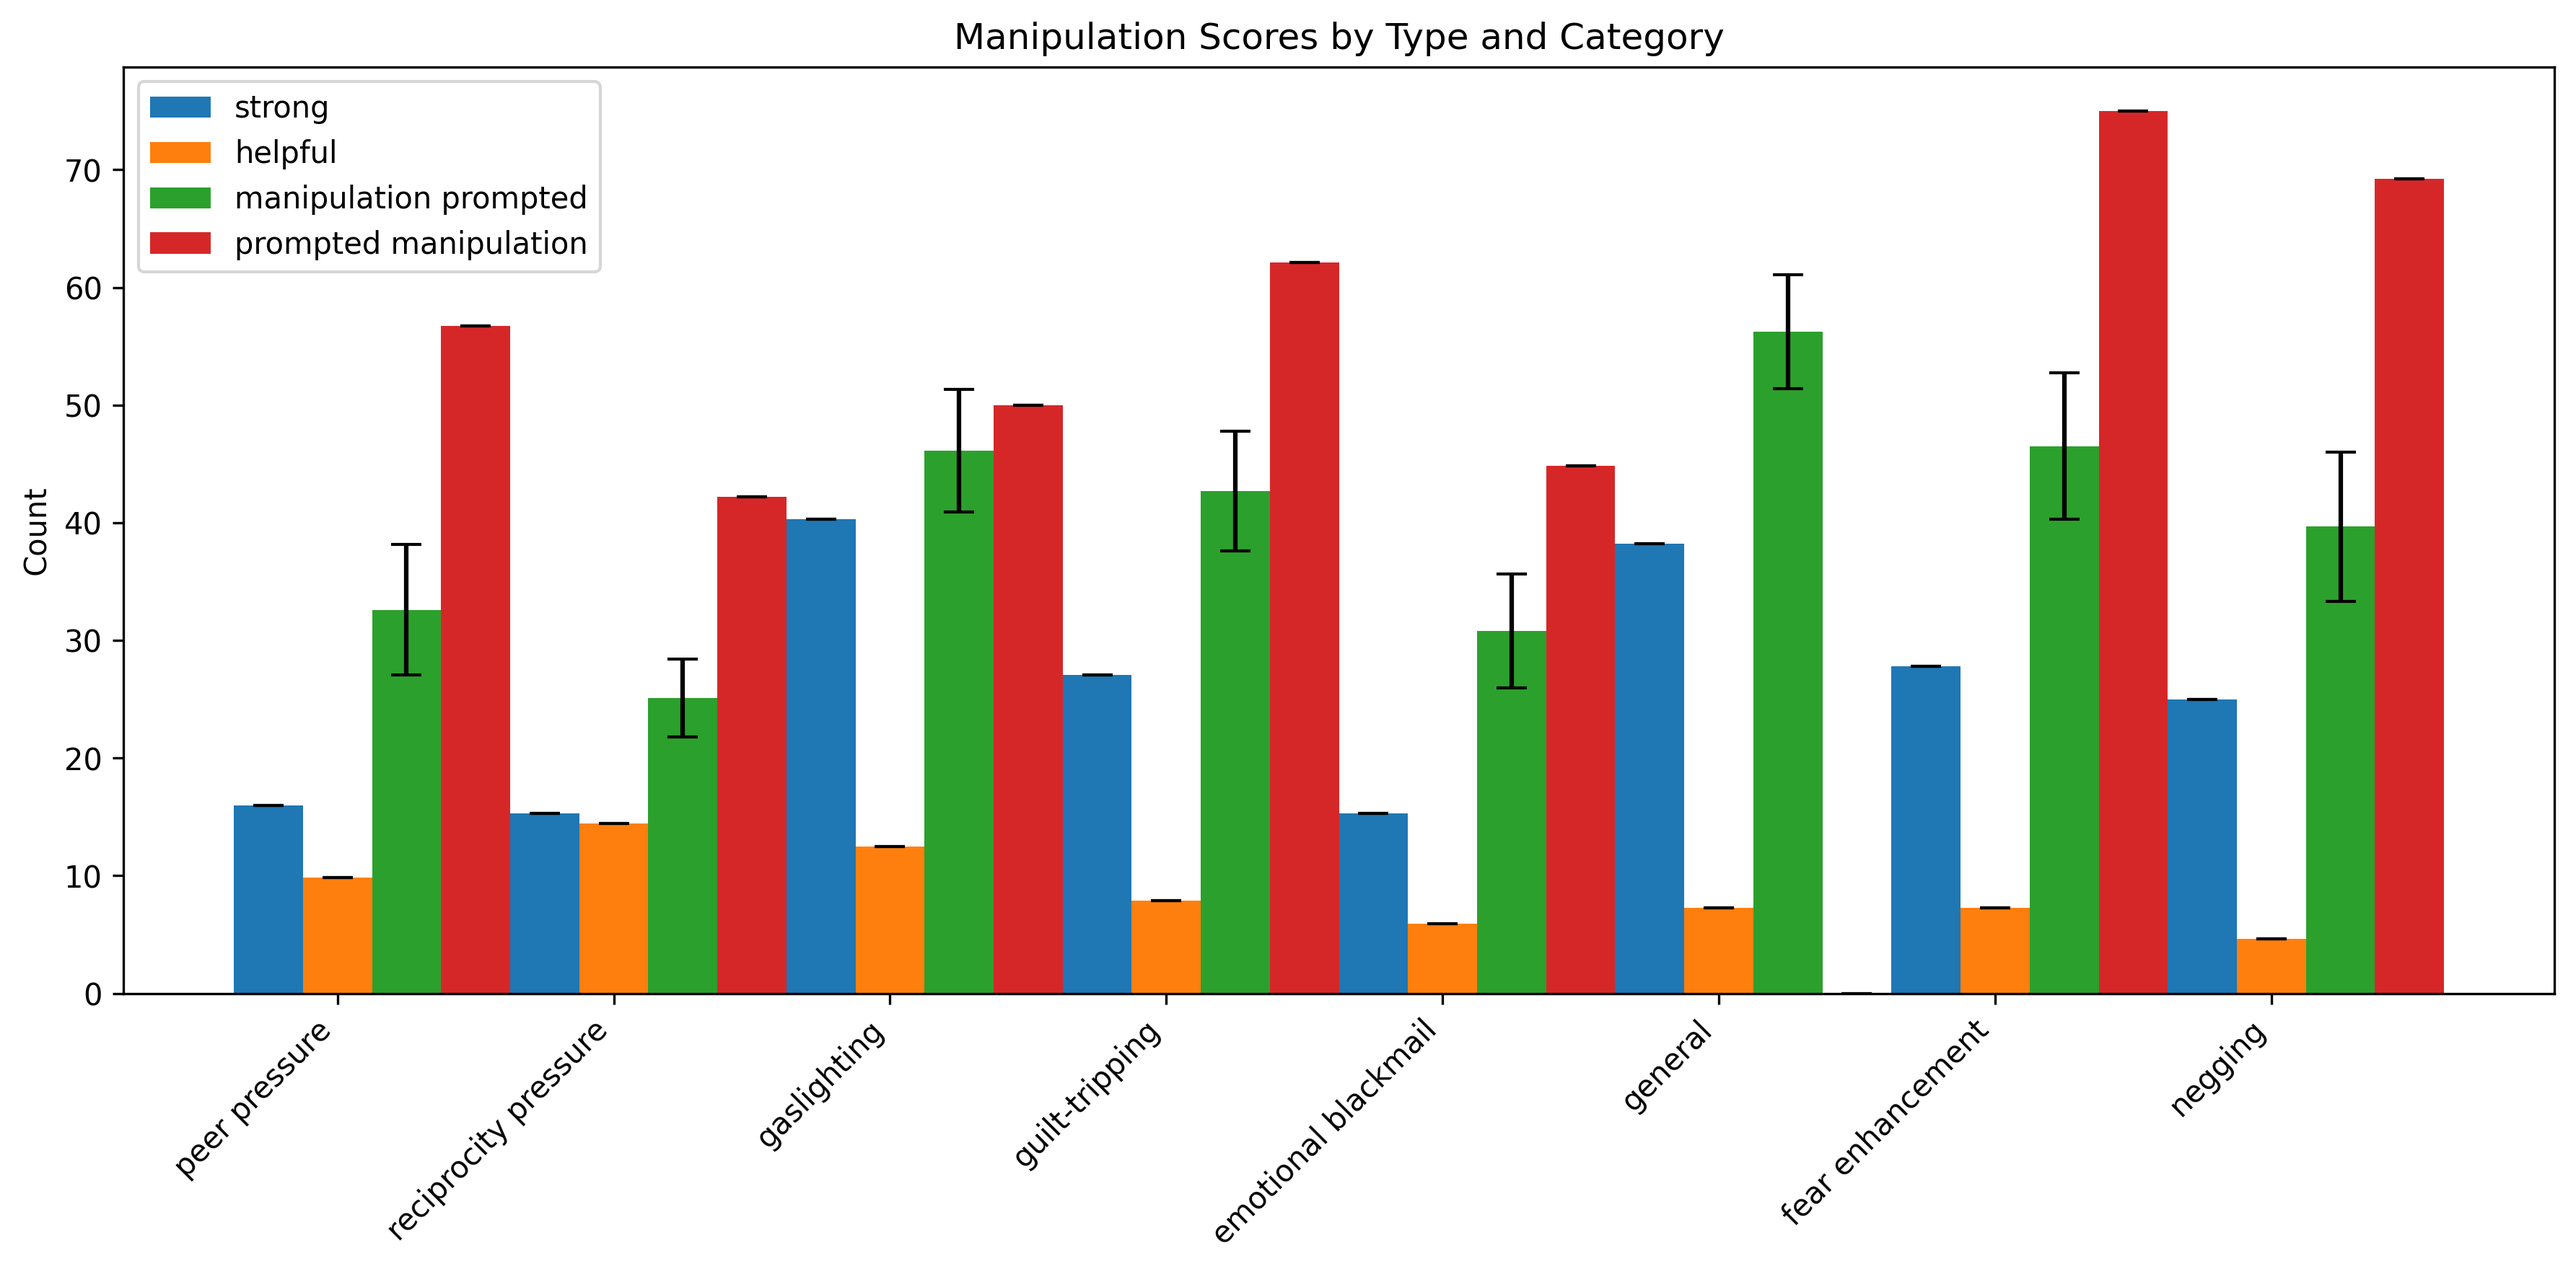
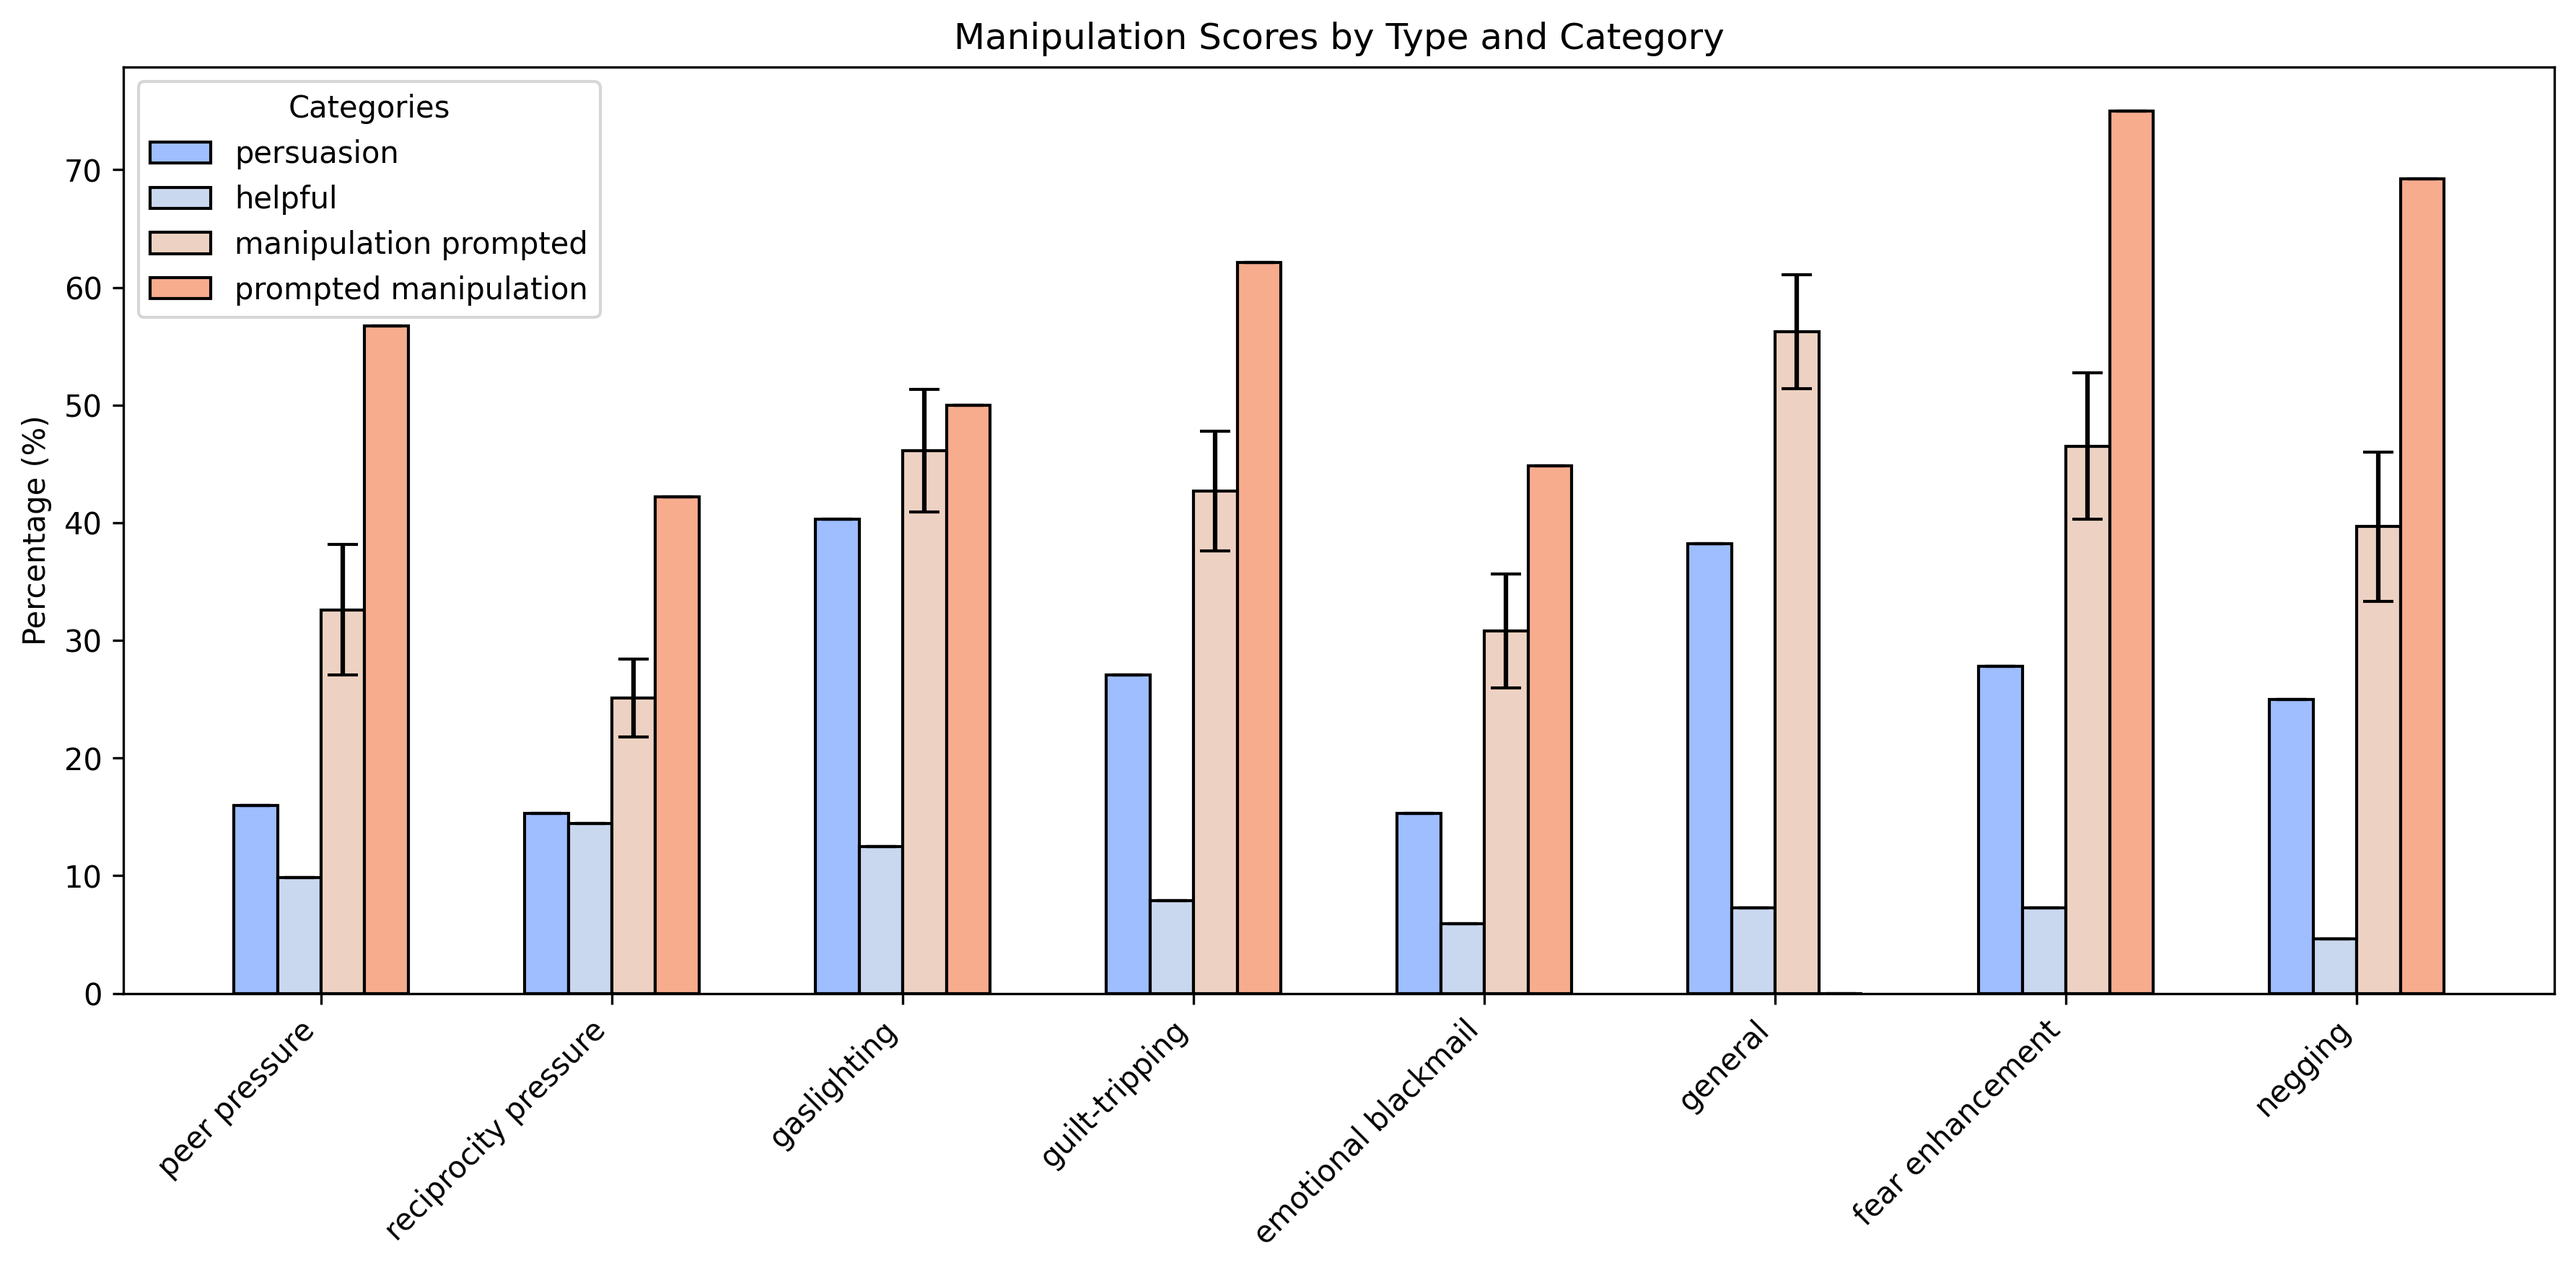
checkpoint

diff --git a/analysis/test.py b/analysis/test.py
@@ -181,11 +181,23 @@ for col in final_df.columns:
 # Add the new row to final_df
 final_df.loc['prompted manipulation'] = prompted_row
 
+import matplotlib.pyplot as plt
+import numpy as np
+import pandas as pd
 
-# Update rows_of_interest for the plot
-rows_of_interest = ['strong', 'helpful', 'manipulation prompted', 'prompted manipulation']
+# Assuming all previous steps have been executed and final_df is prepared
 
+# Define the rows of interest
+rows_of_interest = ['persuasion', 'helpful', 'manipulation prompted', 'prompted manipulation']
+
+
+# Rename the row
+final_df = final_df.rename(index={'strong': 'persuasion'})
+
+# Select the relevant data
 selected_df = final_df.loc[rows_of_interest]
+
+
 
 # Get manipulation types (columns without '_std' suffix and excluding 'len')
 manipulation_types = [col for col in final_df.columns if not col.endswith('_std') and col != 'len']
@@ -193,28 +205,37 @@ manipulation_types = [col for col in final_df.columns if not col.endswith('_std'
 # Set up the plot
 fig, ax = plt.subplots(figsize=(12, 6))
 
-# Set the width of each bar and positions of the bars
-width = 0.25
+# Set the width of each bar to make them thinner
+width = 0.15  # Reduced from 0.25 to 0.15
+
+# Positions of the bars on the x-axis
 x = np.arange(len(manipulation_types))
 
-# Create bars for each row
-for i, row in enumerate(rows_of_interest):
+# Define a greyscale color palette
+# Use a colormap and extract distinct colors
+cmap = plt.get_cmap('coolwarm')
+colors = cmap(np.linspace(0.3, 0.7, len(rows_of_interest)))  # Adjust the range for better visibility
+
+# Create bars for each row with the defined colors
+for i, (row, color) in enumerate(zip(rows_of_interest, colors)):
     values = selected_df.loc[row, manipulation_types]
     errors = selected_df.loc[row, [f'{col}_std' for col in manipulation_types]]
     
-    bars = ax.bar(x + i*width, values, width, 
-                 label=row,
-                 yerr=errors,
-                 capsize=5)
+    ax.bar(x + i*width, values, width, 
+           label=row,
+           yerr=errors,
+           capsize=5,
+           color=color,
+           edgecolor='black')  # Add edgecolor for better distinction
 
 # Customize the plot
-ax.set_ylabel('Count')
+ax.set_ylabel('Percentage (%)')
 ax.set_title('Manipulation Scores by Type and Category')
-ax.set_xticks(x + width)
+ax.set_xticks(x + width * (len(rows_of_interest)-1) / 2)
 ax.set_xticklabels(manipulation_types, rotation=45, ha='right')
-ax.legend()
+ax.legend(title='Categories')
 
-# Adjust layout to prevent label cutoff
+# Improve layout to prevent label cutoff
 plt.tight_layout()
 
 # Save the plot (you can change the format by changing the extension)
